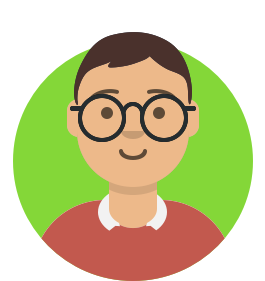
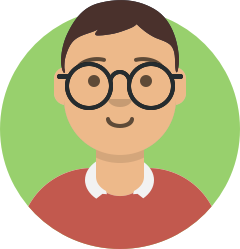
fixed steve

diff --git a/portfolio/plateforward.html b/portfolio/plateforward.html
@@ -209,7 +209,7 @@ Credits to some icons from www.flaticon.com.
 				</p>
 
 				<div>
-					<h3><img src="images/src imgs/Avatar profiles/Steve.svg" alt="" style="width:20%;" /> <br>Suburban Steve:</h3>
+					<h3><img src="images/src imgs/Avatar profiles/Steve.png" alt="" style="width:20%;" /> <br>Suburban Steve:</h3>
 					<nl>
 						<li>Shops for his family every two weeks by focusing on fresh, healthy and local produce.</li><br />
 						<li>Steve likes to shop at grocery stores like Whole Foods, Trader Joes and Mariano's.</li><br />
@@ -321,11 +321,14 @@ Credits to some icons from www.flaticon.com.
 			</header>
 			<div class="container">
 				<h3>Why SquareSpace?</h3>
-				<p>The reality is, we were there for only a week, we had hoped to do it all but we would ultimately have to leave, we wanted to have a positive impact on our client.
-	The reason we chose Squarespace because it allowed us to deploy our designs quickly while at the same time giving something back to the client that they can actually use without outsourcing development. In the past, they would use volunteer services to deploy website changes for their Top Box Foods website which sometimes takes 7+ days for turnaround. </p>
+				<p>The reality is, we were there for only a week, we had hoped to do it all but we would ultimately have to leave, we wanted to have a positive impact on our client. The reason we chose Squarespace because it allowed us to deploy our designs quickly
+					while at the same time giving something back to the client that they can actually use without outsourcing development. In the past, they would use volunteer services to deploy website changes for their Top Box Foods website which sometimes takes
+					7+ days for turnaround. </p>
 
-	<h3>Lessons Learned</h3>
-	<p>Overall this was a positive experience and I had learned a lot about utilizing the Sprint method to get a lot done in a short span. One shortcoming we faced was to do with User Testing. We had asked our client on Tuesday to see if they could recruit users in our target population to test our designs on Thursday. Due to the last minute available, most of the users we tested were either friends, family or other colleagues of our client, therefore, caused a bias in our testing. This was an issues my team and I were okay with accepting. In future iterations of the Sprint, it would be key to secure user tests prior to starting the sprint.</p>
+				<h3>Lessons Learned</h3>
+				<p>Overall this was a positive experience and I had learned a lot about utilizing the Sprint method to get a lot done in a short span. One shortcoming we faced was to do with User Testing. We had asked our client on Tuesday to see if they could recruit
+					users in our target population to test our designs on Thursday. Due to the last minute available, most of the users we tested were either friends, family or other colleagues of our client, therefore, caused a bias in our testing. This was an issues
+					my team and I were okay with accepting. In future iterations of the Sprint, it would be key to secure user tests prior to starting the sprint.</p>
 
 			</div>
 

diff --git a/portfolio/index.html b/portfolio/index.html
@@ -172,9 +172,9 @@ Credits to some icons from www.flaticon.com.
       <!-- My Design Process -->
       <section id="processz" class="three">
         <div class="container">
-          <header>
+          <!-- <header>
             <h2>My Design Process</h2>
-          </header>
+          </header> -->
 
           <img style="width: 95%" class="myImg" src="images/iterative_design_process.png" alt="My 4 step design process is shown here. Research, Ideate, prototype and then test">
 
@@ -206,7 +206,7 @@ Credits to some icons from www.flaticon.com.
 
 
       <!-- About Me -->
-      <section id="about" class="three">
+      <section id="about" class="four">
         <div class="container" >
           <header>
             <h2>Vladimir Who?</h2>

diff --git a/portfolio/assets/css/main.css b/portfolio/assets/css/main.css
@@ -2709,7 +2709,7 @@ li {
 	background-image:none;
 			background-repeat:none;
 			background-position:5px;
-	padding-bottom: 5px;
+
 
 }
 
